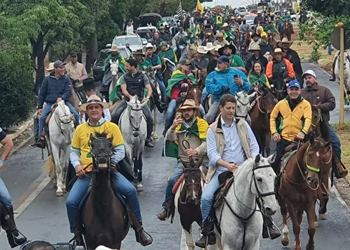
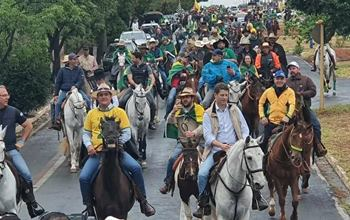
Brasil Pela Liberdade

diff --git a/cards-bauru/index.html b/cards-bauru/index.html
@@ -4,7 +4,7 @@
 	<meta charset="utf-8">
     <meta http-equiv="X-UA-Compatible" content="IE=edge">
     <meta name="viewport" content="width=device-width, initial-scale=1">
-    <title>✠ 1º de Maio 2021 ✠ Brasil pela Liberdade ✠</title>
+    <title>✠ 28 de Agosto 2021 ✠ Brasil pela Liberdade ✠</title>
 		<link rel="stylesheet" href="https://maxcdn.bootstrapcdn.com/bootstrap/4.0.0/css/bootstrap.min.css">
 		<link rel="stylesheet" href="https://cdnjs.cloudflare.com/ajax/libs/baguettebox.js/1.10.0/baguetteBox.min.css" />
 		<!-- gn-menu -->
@@ -14,12 +14,12 @@
 </head>
 <body>
 	<header>
-		<div class="logo">✠ Brasil pela Liberdade ✠ 1º de Maio 2021 ✠</div>
+		<div class="logo">✠ Brasil pela Liberdade ✠ Cavalgada em Bauru São Paulo ✠</div>
 		<div class="toggle"></div>
 		<div class="navigation">
 			<ul>
 					<li><a href="../fluid/">✠ 14 de Março 2021</a></li>
-					<li><a href="../cards-gallery/"> ✠ 1º de Maio 2021</a></li>
+					<li><a href="../cards-gallery/"> ✠ 28 de Agosto 2021</a></li>
 					<li><a href="../clean/">✠ 12 de Maio 2021</a></li>
 					<li><a href="../grid/">✠ 15 de Maio 2021</a></li>
 					<li><a href="../grid-gallery/">✠ 23 de Maio 2021</a></li>
@@ -59,136 +59,103 @@
 	        <div class="row">
 	            <div class="col-md-6 col-lg-4">
 	                <div class="card border-0 transform-on-hover">
-	                	<a class="lightbox" href="../images/1Maio2021/1Maio2021_01.jpg">
-	                		<img src="../images/1Maio2021_01.jpg" alt="1Maio2021" class="card-img-top">
+	                	<a class="lightbox" href="../images/CavalgadaBauru/CavalgadaBauru1.jpg">
+	                		<img src="../images/CavalgadaBauru1.jpg" alt="CavalgadaBauru" class="card-img-top">
 	                	</a>
 	                    <div class="card-body">
-	                        <h6><a href="#">1º de Maio 2021</a></h6>
-	                        <p class="text-muted card-text">Brasil pela Liberdade 1º de Maio 2021</p>
+	                        <h6><a href="#">28 de Agosto 2021</a></h6>
+	                        <p class="text-muted card-text">Cavalgada em Bauru São Paulo</p>
 	                    </div>
 	                </div>
 	            </div>
 	            <div class="col-md-6 col-lg-4">
 	                <div class="card border-0 transform-on-hover">
-	                	<a class="lightbox" href="../images/1Maio2021/1Maio2021_02.png">
-	                		<img src="../images/1Maio2021_02.png" alt="1Maio2021" class="card-img-top">
+	                	<a class="lightbox" href="../images/CavalgadaBauru/CavalgadaBauru2.jpg">
+	                		<img src="../images/CavalgadaBauru2.jpg" alt="CavalgadaBauru" class="card-img-top">
 	                	</a>
 	                    <div class="card-body">
-	                        <h6><a href="#">1º de Maio 2021</a></h6>
-	                        <p class="text-muted card-text">Brasil pela Liberdade 1º de Maio 2021</p>
+	                        <h6><a href="#">28 de Agosto 2021</a></h6>
+	                        <p class="text-muted card-text">Cavalgada em Bauru São Paulo</p>
 	                    </div>
 	                </div>
 	            </div>
 	            <div class="col-md-6 col-lg-4">
 	                <div class="card border-0 transform-on-hover">
-	                	<a class="lightbox" href="../images/1Maio2021/1Maio2021_03.jpg">
-	                		<img src="../images/1Maio2021_03.jpg" alt="1Maio2021" class="card-img-top">
+	                	<a class="lightbox" href="../images/CavalgadaBauru/CavalgadaBauru3.jpg">
+	                		<img src="../images/CavalgadaBauru3.jpg" alt="CavalgadaBauru" class="card-img-top">
 	                	</a>
 	                    <div class="card-body">
-	                        <h6><a href="#">1º de Maio 2021</a></h6>
-	                        <p class="text-muted card-text">Brasil pela Liberdade 1º de Maio 2021</p>
+	                        <h6><a href="#">28 de Agosto 2021</a></h6>
+	                        <p class="text-muted card-text">Cavalgada em Bauru São Paulo</p>
 	                    </div>
 	                </div>
 	            </div>
 	            <div class="col-md-6 col-lg-4">
 	                <div class="card border-0 transform-on-hover">
-	                	<a class="lightbox" href="../images/1Maio2021/1Maio2021_04.jpg">
-	                		<img src="../images/1Maio2021_04.jpg" alt="1Maio2021" class="card-img-top">
+	                	<a class="lightbox" href="../images/CavalgadaBauru/CavalgadaBauru4.jpg">
+	                		<img src="../images/CavalgadaBauru4.jpg" alt="CavalgadaBauru" class="card-img-top">
 	                	</a>
 	                    <div class="card-body">
-	                        <h6><a href="#">1º de Maio 2021</a></h6>
-	                        <p class="text-muted card-text">Brasil pela Liberdade 1º de Maio 2021</p>
+	                        <h6><a href="#">28 de Agosto 2021</a></h6>
+	                        <p class="text-muted card-text">Cavalgada em Bauru São Paulo</p>
 	                    </div>
 	                </div>
 	            </div>
 	            <div class="col-md-6 col-lg-4">
 	                <div class="card border-0 transform-on-hover">
-	                	<a class="lightbox" href="../images/1Maio2021/1Maio2021_05.jpg">
-	                		<img src="../images/1Maio2021_05.jpg" alt="1Maio2021" class="card-img-top">
+	                	<a class="lightbox" href="../images/CavalgadaBauru/CavalgadaBauru5.jpg">
+	                		<img src="../images/CavalgadaBauru5.jpg" alt="CavalgadaBauru" class="card-img-top">
 	                	</a>
 	                    <div class="card-body">
-	                        <h6><a href="#">1º de Maio 2021</a></h6>
-	                        <p class="text-muted card-text">Brasil pela Liberdade 1º de Maio 2021</p>
+	                        <h6><a href="#">28 de Agosto 2021</a></h6>
+	                        <p class="text-muted card-text">Cavalgada em Bauru São Paulo</p>
 	                    </div>
 	                </div>
 	            </div>
 	            <div class="col-md-6 col-lg-4">
 	                <div class="card border-0 transform-on-hover">
-	                	<a class="lightbox" href="../images/1Maio2021/1Maio2021_06.jpg">
-	                		<img src="../images/1Maio2021_06.jpg" alt="1Maio2021" class="card-img-top">
+	                	<a class="lightbox" href="../images/CavalgadaBauru/CavalgadaBauru6.jpg">
+	                		<img src="../images/CavalgadaBauru6.jpg" alt="CavalgadaBauru" class="card-img-top">
 	                	</a>
 	                    <div class="card-body">
-	                        <h6><a href="#">1º de Maio 2021</a></h6>
-	                        <p class="text-muted card-text">Brasil pela Liberdade 1º de Maio 2021</p>
+	                        <h6><a href="#">28 de Agosto 2021</a></h6>
+	                        <p class="text-muted card-text">Cavalgada em Bauru São Paulo</p>
 	                    </div>
 	                </div>
 	            </div>
 							<div class="col-md-6 col-lg-4">
 	                <div class="card border-0 transform-on-hover">
-	                	<a class="lightbox" href="../images/1Maio2021/1Maio2021_12.jpg">
-	                		<img src="../images/1Maio2021_12.jpg" alt="1Maio2021" class="card-img-top">
+	                	<a class="lightbox" href="../images/CavalgadaBauru/CavalgadaBauru7.jpg">
+	                		<img src="../images/CavalgadaBauru7.jpg" alt="CavalgadaBauru" class="card-img-top">
 	                	</a>
 	                    <div class="card-body">
-	                        <h6><a href="#">1º de Maio 2021</a></h6>
-	                        <p class="text-muted card-text">Brasil pela Liberdade 1º de Maio 2021</p>
+	                        <h6><a href="#">28 de Agosto 2021</a></h6>
+	                        <p class="text-muted card-text">Cavalgada em Bauru São Paulo</p>
 	                    </div>
 	                </div>
 	            </div>
 							<div class="col-md-6 col-lg-4">
 	                <div class="card border-0 transform-on-hover">
-	                	<a class="lightbox" href="../images/1Maio2021/1Maio2021_08.jpg">
-	                		<img src="../images/1Maio2021_08.jpg" alt="1Maio2021" class="card-img-top">
+	                	<a class="lightbox" href="../images/CavalgadaBauru/CavalgadaBauru8.jpg">
+	                		<img src="../images/CavalgadaBauru8.jpg" alt="CavalgadaBauru" class="card-img-top">
 	                	</a>
 	                    <div class="card-body">
-	                        <h6><a href="#">1º de Maio 2021</a></h6>
-	                        <p class="text-muted card-text">Brasil pela Liberdade 1º de Maio 2021</p>
+	                        <h6><a href="#">28 de Agosto 2021</a></h6>
+	                        <p class="text-muted card-text">Cavalgada em Bauru São Paulo</p>
 	                    </div>
 	                </div>
 	            </div>
 							<div class="col-md-6 col-lg-4">
 	                <div class="card border-0 transform-on-hover">
-	                	<a class="lightbox" href="../images/1Maio2021/1Maio2021_09.jpg">
-	                		<img src="../images/1Maio2021_09.jpg" alt="1Maio2021" class="card-img-top">
+	                	<a class="lightbox" href="../images/CavalgadaBauru/CavalgadaBauru9.jpg">
+	                		<img src="../images/CavalgadaBauru9.jpg" alt="CavalgadaBauru" class="card-img-top">
 	                	</a>
 	                    <div class="card-body">
-	                        <h6><a href="#">1º de Maio 2021</a></h6>
-	                        <p class="text-muted card-text">Brasil pela Liberdade 1º de Maio 2021</p>
+	                        <h6><a href="#">28 de Agosto 2021</a></h6>
+	                        <p class="text-muted card-text">Cavalgada em Bauru São Paulo</p>
 	                    </div>
 	                </div>
-	            </div>
-							<div class="col-md-6 col-lg-4">
-	                <div class="card border-0 transform-on-hover">
-	                	<a class="lightbox" href="../images/1Maio2021/1Maio2021_10.jpg">
-	                		<img src="../images/1Maio2021_10.jpg" alt="1Maio2021" class="card-img-top">
-	                	</a>
-	                    <div class="card-body">
-	                        <h6><a href="#">1º de Maio 2021</a></h6>
-	                        <p class="text-muted card-text">Brasil pela Liberdade 1º de Maio 2021</p>
-	                    </div>
-	                </div>
-	            </div>
-							<div class="col-md-6 col-lg-4">
-	                <div class="card border-0 transform-on-hover">
-	                	<a class="lightbox" href="../images/1Maio2021/1Maio2021_07.jpg">
-	                		<img src="../images/1Maio2021_07.jpg" alt="1Maio2021" class="card-img-top">
-	                	</a>
-	                    <div class="card-body">
-	                        <h6><a href="#">1º de Maio 2021</a></h6>
-	                        <p class="text-muted card-text">Brasil pela Liberdade 1º de Maio 2021</p>
-	                    </div>
-	                </div>
-	            </div>
-							<div class="col-md-6 col-lg-4">
-	                <div class="card border-0 transform-on-hover">
-	                	<a class="lightbox" href="../images/1Maio2021/1Maio2021_11.jpg">
-	                		<img src="../images/1Maio2021_11.jpg" alt="1Maio2021" class="card-img-top">
-	                	</a>
-	                    <div class="card-body">
-	                        <h6><a href="#">1º de Maio 2021</a></h6>
-	                        <p class="text-muted card-text">Brasil pela Liberdade 1º de Maio 2021</p>
-	                    </div>
-	                </div>
-	            </div>
+	            </div>							
 	        </div>
 	    </div>
     </section>

diff --git a/cards-bauru/cards-gallery.css b/cards-bauru/cards-gallery.css
@@ -1,0 +1,84 @@
+.gallery-block{
+	padding-bottom: 60px;
+	padding-top: 60px;
+}
+
+.gallery-block .heading{
+    margin-bottom: 50px;
+    text-align: center;
+}
+
+.gallery-block .heading h2{
+    font-weight: bold;
+    font-size: 1.4rem;
+    text-transform: uppercase;
+}
+
+.gallery-block.cards-gallery h6 {
+  font-size: 17px;
+  font-weight: bold; 
+}
+
+.gallery-block.cards-gallery .card{
+  transition: 0.4s ease; 
+}
+
+.gallery-block.cards-gallery .card img {
+  box-shadow: 0px 2px 10px rgba(0, 0, 0, 0.15); 
+}
+
+.gallery-block.cards-gallery .card-body {
+  text-align: center; 
+}
+
+.gallery-block.cards-gallery .card-body p {
+  font-size: 15px; 
+}
+
+.gallery-block.cards-gallery a {
+  color: #002776; 
+}
+
+.gallery-block.cards-gallery a:hover {
+  text-decoration: none; 
+}
+
+.gallery-block.cards-gallery .card {
+  margin-bottom: 30px; 
+  box-shadow: 0px 2px 10px rgba(0, 0, 0, 0.15);
+  border-radius: 5px;
+}
+
+@media (min-width: 576px) {
+
+	.gallery-block .transform-on-hover:hover {
+	    transform: translateY(-10px) scale(1.02);
+	    box-shadow: 0px 10px 10px rgba(0, 0, 0, 0.15) !important; 
+	}
+}
+
+.card-body, h6, p, a {
+  color: #009c3b !important;
+  background-color: #fff;
+}
+
+.card-img-top {
+  width: 100%;
+  border-top-left-radius: calc(0.5rem - 1px);
+  border-top-right-radius: calc(.5rem - 1px);
+}
+
+.card-body {
+  border-bottom-left-radius: calc(0.5rem - 1px);
+  border-bottom-right-radius: calc(.5rem - 1px);
+}
+
+.card-body, a, h6, p, .text-muted  {
+  color: #009c3b !important;    
+  font-size: 16px;
+  font-weight: bold;
+}
+
+body {
+  background-color: #fbdb04;
+}

diff --git a/index.html b/index.html
@@ -47,7 +47,7 @@
                     <li><a href="./clean/">✠ 12 de Maio 2021</a></li>
                     <li><a href="./grid/">✠ 15 de Maio 2021</a></li>
                     <li><a href="./grid-gallery/">✠ 23 de Maio 2021</a></li>
-                    <li><a href="./compact-gallery/">✠ 28 de Agosto 2021</a></li>
+                    <li><a href="./cards-bauru/">✠ 28 de Agosto 2021</a></li>
 				</ul>
                 <div class="social-bar">
                     <ul>
@@ -91,7 +91,7 @@
                     <li><a href="./clean/">12 de Maio 2021</a></li>
                     <li><a href="../grid/">15 de Maio 2021</a></li>
                     <li><a href="./grid-gallery/">23 de Maio 2021</a></li>
-                    <li><a href="./compact-gallery/">28 de Agosto 2021</a></li>
+                    <li><a href="./cards-bauru/">28 de Agosto 2021</a></li>
                 </ul>
             </div>
         </section>

diff --git a/grid-gallery/index.html b/grid-gallery/index.html
@@ -24,7 +24,7 @@
                         <li><a href="../clean/">✠ 12 de Maio 2021</a></li>
                         <li><a href="../grid/">✠ 15 de Maio 2021</a></li>
                         <li><a href="../grid-gallery/">✠ 23 de Maio 2021</a></li>
-                        <li><a href="../compact-gallery/">✠ 28 de Agosto 2021</a></li>
+                        <li><a href="../cards-bauru/">✠ 28 de Agosto 2021</a></li>
                 </ul>
                 <div class="social-bar">
                     <ul>

diff --git a/grid/index.html b/grid/index.html
@@ -44,7 +44,7 @@
                 <li><a href="../clean/">✠ 12 de Maio 2021</a></li>
                 <li><a href="../grid/">✠ 15 de Maio 2021</a></li>
                 <li><a href="../grid-gallery/">✠ 23 de Maio 2021</a></li>
-                <li><a href="../compact-gallery/">✠ 28 de Agosto 2021</a></li>
+                <li><a href="../cards-bauru/">✠ 28 de Agosto 2021</a></li>
         </ul>
         <div class="social-bar">
             <ul>

diff --git a/fluid/index.html b/fluid/index.html
@@ -43,7 +43,7 @@
 						<li><a href="../clean/">✠ 12 de Maio 2021</a></li>
 						<li><a href="../grid/">✠ 15 de Maio 2021</a></li>
 						<li><a href="../grid-gallery/">✠ 23 de Maio 2021</a></li>
-						<li><a href="../compact-gallery/">✠ 28 de Agosto 2021</a></li>
+						<li><a href="../cards-bauru/">✠ 28 de Agosto 2021</a></li>
 				</ul>
         <div class="social-bar">
             <ul>

diff --git a/clean/index.html b/clean/index.html
@@ -30,7 +30,7 @@
 					<li><a href="../clean/">✠ 12 de Maio 2021</a></li>
 					<li><a href="../grid/">✠ 15 de Maio 2021</a></li>
 					<li><a href="../grid-gallery/">✠ 23 de Maio 2021</a></li>
-					<li><a href="../compact-gallery/">✠ 28 de Agosto 2021</a></li>
+					<li><a href="../cards-bauru/">✠ 28 de Agosto 2021</a></li>
 			</ul>
 			<div class="social-bar">
                 <ul>

diff --git a/compact-gallery/index.html b/compact-gallery/index.html
@@ -24,7 +24,7 @@
 					<li><a href="../clean/">✠ 12 de Maio 2021</a></li>
 					<li><a href="../grid/">✠ 15 de Maio 2021</a></li>
 					<li><a href="../grid-gallery/">✠ 23 de Maio 2021</a></li>
-					<li><a href="../compact-gallery/">✠ 28 de Agosto 2021</a></li>
+					<li><a href="../cards-bauru/">✠ 28 de Agosto 2021</a></li>
 			</ul>
 			<div class="social-bar">
                 <ul>

diff --git a/README.md b/README.md
@@ -17,5 +17,5 @@ Uma série de eventos realizados em todo o Brasil, pedindo liberdade para trabal
   - [✠ 12 de Maio 2021](https://brasil-pela-liberdade.vercel.app/clean/)
   - [✠ 15 de Maio 2021](https://brasil-pela-liberdade.vercel.app/grid/)
   - [✠ 23 de Maio 2021](https://brasil-pela-liberdade.vercel.app/grid-gallery/)
-  - [✠ 28 de Agosto 2021](https://brasil-pela-liberdade.vercel.app/compact-gallery/)
+  - [✠ 28 de Agosto 2021](https://brasil-pela-liberdade.vercel.app/cards-bauru/)
 
